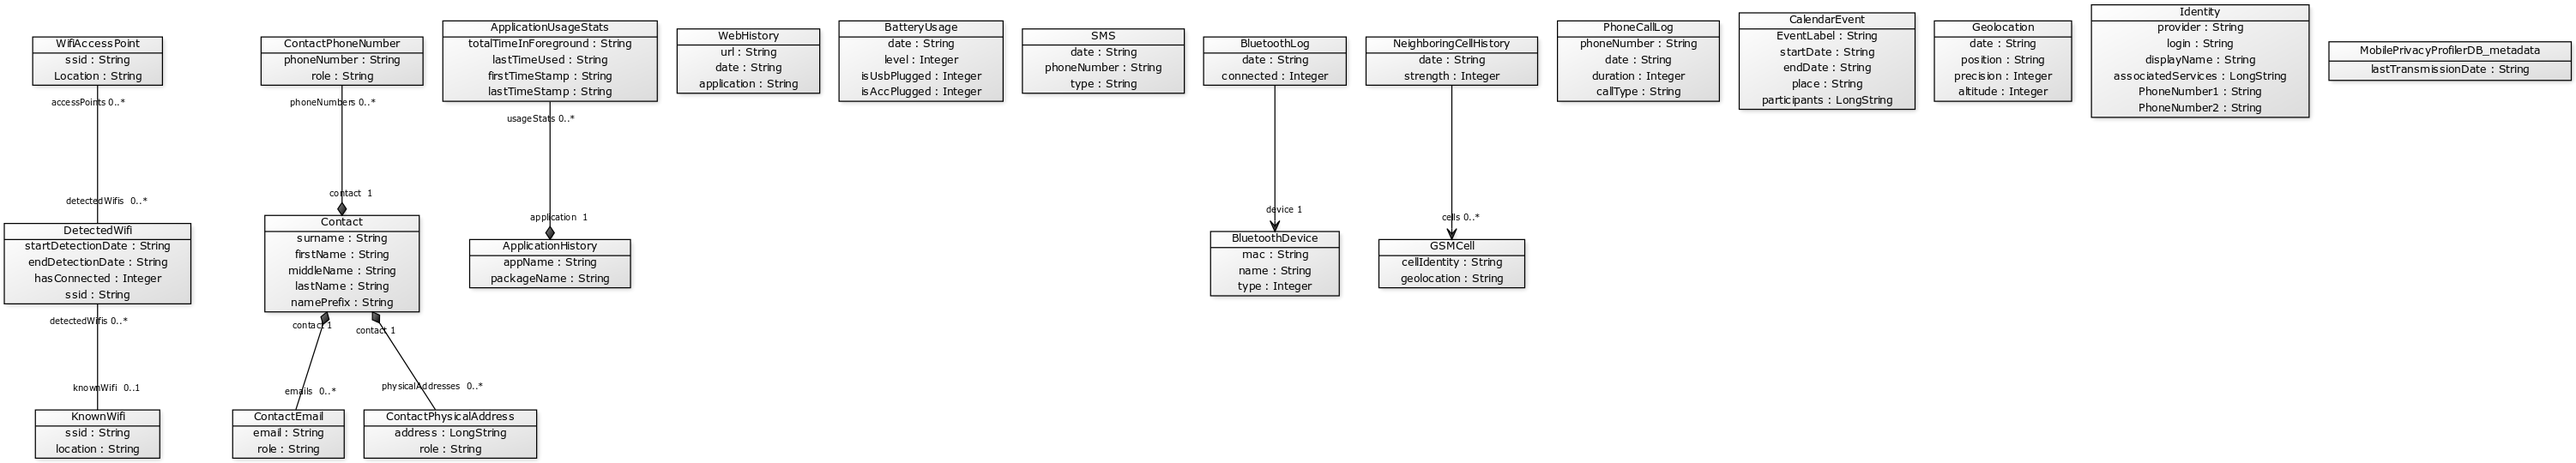
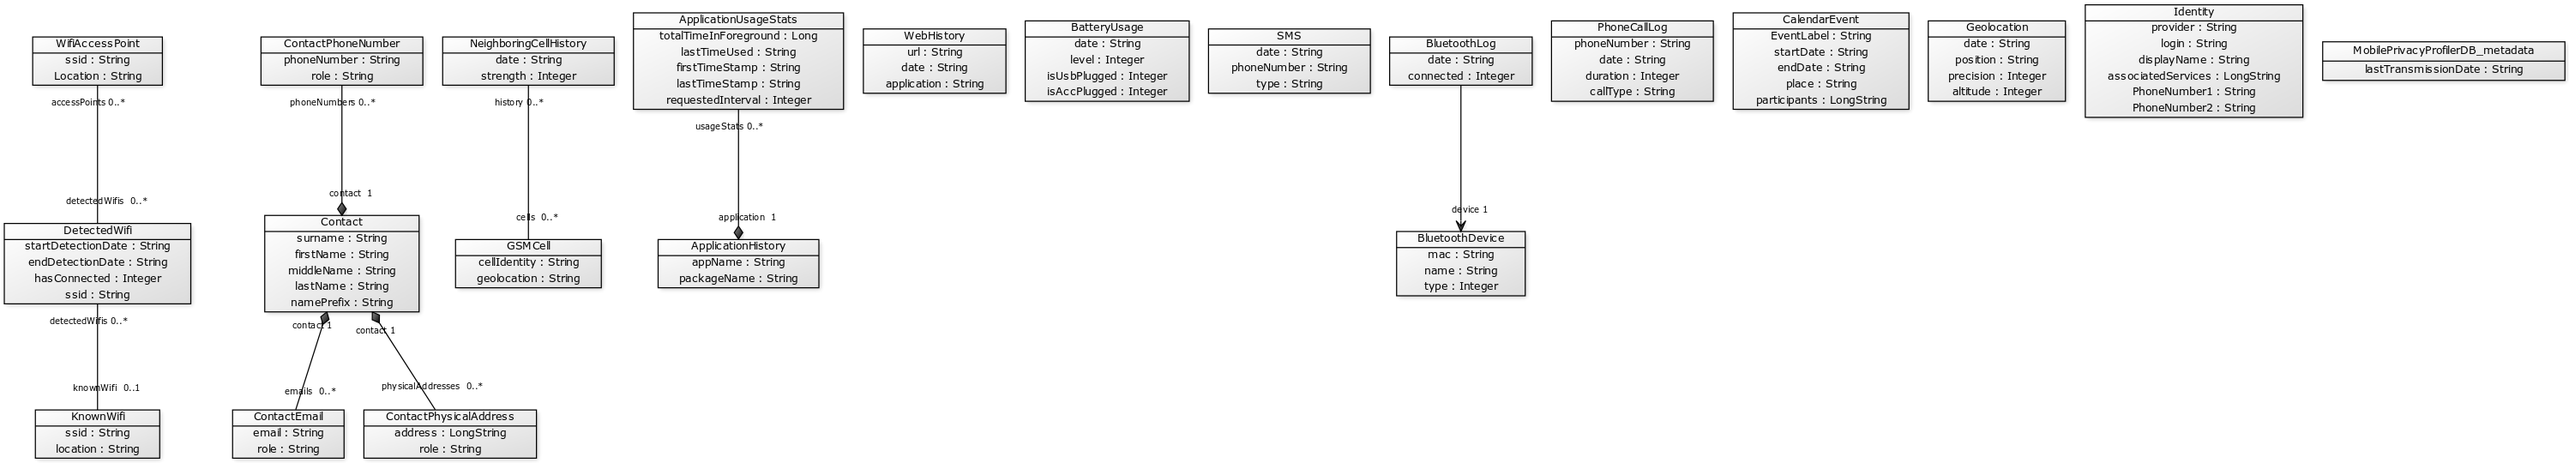
store both daily and weekly appstats
contributes to #8

diff --git a/app/src/main/java/fr/inria/diverse/mobileprivacyprofiler/services/ScanDeviceIntentService.java b/app/src/main/java/fr/inria/diverse/mobileprivacyprofiler/services/ScanDeviceIntentService.java
@@ -154,25 +154,34 @@ public class ScanDeviceIntentService extends IntentService {
      */
     private void handleActionScanAppUsage() {
         Log.d(TAG,"handleActionScanAppUsage");
+        scanAppUsageForLastPeriod(UsageStatsManager.INTERVAL_WEEKLY);
+        scanAppUsageForLastPeriod(UsageStatsManager.INTERVAL_DAILY);
+    }
+
+    private void scanAppUsageForLastPeriod(int periodType) {
         if (Build.VERSION.SDK_INT >= Build.VERSION_CODES.LOLLIPOP) {
-
-
-
             UsageStatsManager usageStatsManager = (UsageStatsManager) getSystemService(USAGE_STATS_SERVICE);
-            SimpleDateFormat dateFormat = new SimpleDateFormat("dd-MM-yyyy", Locale.US);
-
-
-            Log.d(TAG,"got usageStatsManager "+usageStatsManager.toString());
             Calendar calendar = Calendar.getInstance();
-            calendar.set(Calendar.DAY_OF_WEEK, Calendar.MONDAY);
-            Calendar startDate = DateUtils.firstDayOfLastWeek(calendar);
-           // startDate.add(Calendar.MONTH, -1);
+            //calendar.set(Calendar.DAY_OF_WEEK, Calendar.MONDAY);
+            Calendar startDate;
+            Calendar endDate;
+            switch (periodType) {
+                case UsageStatsManager.INTERVAL_WEEKLY:
+                    startDate = DateUtils.firstDayOfLastWeek(calendar);
+                    endDate = DateUtils.lastDayOfLastWeek(calendar);
+                break;
+                default: // default to daily period
+                    startDate = DateUtils.yesterdayStart(calendar);
+                    endDate = DateUtils.yesterdayEnd(calendar);
+                    break;
+            }
+
+            // startDate.add(Calendar.MONTH, -1);
             long start = startDate.getTimeInMillis();
-            long end = DateUtils.lastDayOfLastWeek(calendar).getTimeInMillis();
+            long end = endDate.getTimeInMillis();
             Log.d(TAG,"   Stat period required "+ DateUtils.printDate(start) +
                     " - "+ DateUtils.printDate(end));
-            //Map<String, UsageStats> stats = usageStatsManager.queryAndAggregateUsageStats(start, end);
-            List<UsageStats> stats = usageStatsManager.queryUsageStats(UsageStatsManager.INTERVAL_WEEKLY,start, end);
+            List<UsageStats> stats = usageStatsManager.queryUsageStats(periodType,start, end);
             Log.d(TAG,"usageStatsManager query returned "+stats.size()+" elements; hasPermission= "+hasPermission());
             for(UsageStats appUsageStatsentry : stats){
                 Log.d(TAG,"stats for "+appUsageStatsentry.getPackageName());
@@ -185,16 +194,17 @@ public class ScanDeviceIntentService extends IntentService {
                             " - "+ DateUtils.printDate(appUsageStatsentry.getLastTimeStamp()));
                     ApplicationUsageStats equivalentExistingStat = null;
                     for (ApplicationUsageStats existingStat : applicationHistory.getUsageStats()){
-                         if(existingStat.getFirstTimeStamp().equals(statStartDate)) {
-                             equivalentExistingStat =  existingStat;
-                         }
+                        if(existingStat.getRequestedInterval() ==  periodType &&
+                                existingStat.getFirstTimeStamp().equals(statStartDate)) {
+                            equivalentExistingStat =  existingStat;
+                        }
                     }
                     if (equivalentExistingStat != null) {
-                        // update existing 
+                        // update existing
                         Log.d(TAG,"   updating... ");
                         equivalentExistingStat.setLastTimeStamp(DateUtils.printDate(appUsageStatsentry.getLastTimeStamp()));
                         equivalentExistingStat.setLastTimeUsed(DateUtils.printDate(appUsageStatsentry.getLastTimeUsed()));
-                        equivalentExistingStat.setTotalTimeInForeground(""+appUsageStatsentry.getTotalTimeInForeground());
+                        equivalentExistingStat.setTotalTimeInForeground(appUsageStatsentry.getTotalTimeInForeground());
                         getDBHelper().getApplicationUsageStatsDao().update(equivalentExistingStat);
                     } else {
                         // create new entry
@@ -203,7 +213,8 @@ public class ScanDeviceIntentService extends IntentService {
                         appStat.setFirstTimeStamp(statStartDate);
                         appStat.setLastTimeStamp(DateUtils.printDate(appUsageStatsentry.getLastTimeStamp()));
                         appStat.setLastTimeUsed(DateUtils.printDate(appUsageStatsentry.getLastTimeUsed()));
-                        appStat.setTotalTimeInForeground(""+appUsageStatsentry.getTotalTimeInForeground());
+                        appStat.setTotalTimeInForeground(appUsageStatsentry.getTotalTimeInForeground());
+                        appStat.setRequestedInterval(periodType);
                         appStat.setApplication(applicationHistory);
                         getDBHelper().getApplicationUsageStatsDao().create(appStat);
                     }

diff --git a/app/src/main/java/fr/inria/diverse/mobileprivacyprofiler/datamodel/ApplicationUsageStats.java b/app/src/main/java/fr/inria/diverse/mobileprivacyprofiler/datamodel/ApplicationUsageStats.java
@@ -37,6 +37,7 @@ public class ApplicationUsageStats {
 	public static final String XML_ATT_LASTTIMEUSED = "lastTimeUsed";
 	public static final String XML_ATT_FIRSTTIMESTAMP = "firstTimeStamp";
 	public static final String XML_ATT_LASTTIMESTAMP = "lastTimeStamp";
+	public static final String XML_ATT_REQUESTEDINTERVAL = "requestedInterval";
 	public static final String XML_REF_APPLICATION = "application";
 	// id is generated by the database and set on the object automagically
 	@DatabaseField(generatedId = true)
@@ -54,8 +55,9 @@ public class ApplicationUsageStats {
 	public boolean application_mayNeedDBRefresh = true;
 	
 
+	/** Get the total time this package spent in the foreground, measured in milliseconds.  */ 
 	@DatabaseField
-	protected java.lang.String totalTimeInForeground;
+	protected long totalTimeInForeground;
 
 	@DatabaseField
 	protected java.lang.String lastTimeUsed;
@@ -67,6 +69,10 @@ public class ApplicationUsageStats {
 	/** Get the end of the time range this UsageStats represents, measured in milliseconds since the epoch. */ 
 	@DatabaseField
 	protected java.lang.String lastTimeStamp;
+
+	/** Daily, weekly, monthly, yearly as defined in https://developer.android.com/reference/android/app/usage/UsageStatsManager.html */ 
+	@DatabaseField
+	protected int requestedInterval;
 	
 
 	@DatabaseField(foreign = true) //, columnName = USER_ID_FIELD_NAME)
@@ -76,12 +82,13 @@ public class ApplicationUsageStats {
 	// End of user code
 	
 	public ApplicationUsageStats() {} // needed by ormlite
-	public ApplicationUsageStats(java.lang.String totalTimeInForeground, java.lang.String lastTimeUsed, java.lang.String firstTimeStamp, java.lang.String lastTimeStamp) {
+	public ApplicationUsageStats(long totalTimeInForeground, java.lang.String lastTimeUsed, java.lang.String firstTimeStamp, java.lang.String lastTimeStamp, int requestedInterval) {
 		super();
 		this.totalTimeInForeground = totalTimeInForeground;
 		this.lastTimeUsed = lastTimeUsed;
 		this.firstTimeStamp = firstTimeStamp;
 		this.lastTimeStamp = lastTimeStamp;
+		this.requestedInterval = requestedInterval;
 	} 
 
 	public int getId() {
@@ -98,10 +105,10 @@ public class ApplicationUsageStats {
 		this._contextDB = contextDB;
 	}
 
-	public java.lang.String getTotalTimeInForeground() {
+	public long getTotalTimeInForeground() {
 		return this.totalTimeInForeground;
 	}
-	public void setTotalTimeInForeground(java.lang.String totalTimeInForeground) {
+	public void setTotalTimeInForeground(long totalTimeInForeground) {
 		this.totalTimeInForeground = totalTimeInForeground;
 	}
 	public java.lang.String getLastTimeUsed() {
@@ -121,6 +128,12 @@ public class ApplicationUsageStats {
 	}
 	public void setLastTimeStamp(java.lang.String lastTimeStamp) {
 		this.lastTimeStamp = lastTimeStamp;
+	}
+	public int getRequestedInterval() {
+		return this.requestedInterval;
+	}
+	public void setRequestedInterval(int requestedInterval) {
+		this.requestedInterval = requestedInterval;
 	}
 
 	public ApplicationHistory getApplication() {
@@ -153,7 +166,7 @@ public class ApplicationUsageStats {
 		sb.append(" ");
     	sb.append(XML_ATT_TOTALTIMEINFOREGROUND);
     	sb.append("=\"");
-		sb.append(StringEscapeUtils.escapeXml(this.totalTimeInForeground));
+		sb.append(this.totalTimeInForeground);
     	sb.append("\" ");
 		sb.append(" ");
     	sb.append(XML_ATT_LASTTIMEUSED);
@@ -169,6 +182,11 @@ public class ApplicationUsageStats {
     	sb.append(XML_ATT_LASTTIMESTAMP);
     	sb.append("=\"");
 		sb.append(StringEscapeUtils.escapeXml(this.lastTimeStamp));
+    	sb.append("\" ");
+		sb.append(" ");
+    	sb.append(XML_ATT_REQUESTEDINTERVAL);
+    	sb.append("=\"");
+		sb.append(this.requestedInterval);
     	sb.append("\" ");
     	sb.append(">");
 

diff --git a/app/src/main/java/fr/inria/diverse/mobileprivacyprofiler/utils/DateUtils.java b/app/src/main/java/fr/inria/diverse/mobileprivacyprofiler/utils/DateUtils.java
@@ -31,6 +31,34 @@ public class DateUtils {
         }
     }
 
+    public static Calendar firstDayOfLastMonth(Calendar c)
+    {
+        c = (Calendar) c.clone();
+        // last month
+        c.add(Calendar.MONTH, -1);
+        // first day
+        c.set(Calendar.DAY_OF_MONTH, 1);
+        c.set(Calendar.HOUR_OF_DAY, 0);
+        c.set(Calendar.MINUTE, 0);
+        c.set(Calendar.SECOND, 0);
+        c.set(Calendar.MILLISECOND, 0);
+        return c;
+    }
+
+    public static Calendar lastDayOfLastMonth(Calendar c)
+    {
+        c = (Calendar) c.clone();
+        // first day of this month
+        c.set(Calendar.DAY_OF_MONTH, 1);
+        c.set(Calendar.HOUR_OF_DAY, 0);
+        c.set(Calendar.MINUTE, 0);
+        c.set(Calendar.SECOND, 0);
+        c.set(Calendar.MILLISECOND, 0);
+        // last day/milllis of previous month
+        c.add(Calendar.MILLISECOND, -1);
+        return c;
+    }
+
     public static Calendar firstDayOfLastWeek(Calendar c)
     {
         c = (Calendar) c.clone();
@@ -55,6 +83,31 @@ public class DateUtils {
         c.set(Calendar.SECOND, 0);
         c.set(Calendar.MILLISECOND, 0);
         // last day/milllis of previous week
+        c.add(Calendar.MILLISECOND, -1);
+        return c;
+    }
+
+    public static Calendar yesterdayStart(Calendar c)
+    {
+        c = (Calendar) c.clone();
+        // yesterday
+        c.add(Calendar.DAY_OF_WEEK, -1);
+        c.set(Calendar.HOUR_OF_DAY, 0);
+        c.set(Calendar.MINUTE, 0);
+        c.set(Calendar.SECOND, 0);
+        c.set(Calendar.MILLISECOND, 0);
+        return c;
+    }
+
+    public static Calendar yesterdayEnd(Calendar c)
+    {
+        c = (Calendar) c.clone();
+        // today
+        c.set(Calendar.HOUR_OF_DAY, 0);
+        c.set(Calendar.MINUTE, 0);
+        c.set(Calendar.SECOND, 0);
+        c.set(Calendar.MILLISECOND, 0);
+        // last milllis of yesterday
         c.add(Calendar.MILLISECOND, -1);
         return c;
     }

diff --git a/app/src/main/java/fr/inria/diverse/mobileprivacyprofiler/datamodel/xml/MobilePrivacyProfilerDBXMLParser.java b/app/src/main/java/fr/inria/diverse/mobileprivacyprofiler/datamodel/xml/MobilePrivacyProfilerDBXMLParser.java
@@ -152,6 +152,8 @@ public class MobilePrivacyProfilerDBXMLParser {
 	public static final String DATAATT_APPLICATIONUSAGESTATS_FIRSTTIMESTAMP = "FIRSTTIMESTAMP";
 	public static final String DATAATT_APPLICATIONUSAGESTATS_lastTimeStamp = "lastTimeStamp";
 	public static final String DATAATT_APPLICATIONUSAGESTATS_LASTTIMESTAMP = "LASTTIMESTAMP";
+	public static final String DATAATT_APPLICATIONUSAGESTATS_requestedInterval = "requestedInterval";
+	public static final String DATAATT_APPLICATIONUSAGESTATS_REQUESTEDINTERVAL = "REQUESTEDINTERVAL";
 	public static final String DATAREF_APPLICATIONUSAGESTATS_application = "application";
 	public static final String DATAATT_IDENTITY_provider = "provider";
 	public static final String DATAATT_IDENTITY_PROVIDER = "PROVIDER";
@@ -875,10 +877,11 @@ public class MobilePrivacyProfilerDBXMLParser {
     	String currentTagName = parser.getName();
     			
     	xmlId2ApplicationUsageStats.put(parser.getAttributeValue(null, ID_STRING),result);		
-		result.setTotalTimeInForeground(parser.getAttributeValue(null, DATAATT_APPLICATIONUSAGESTATS_totalTimeInForeground));
+		// TODO totalTimeInForeground = parser.getAttributeValue(null, DATAATT_APPLICATIONUSAGESTATS_TOTALTIMEINFOREGROUND);
 		result.setLastTimeUsed(parser.getAttributeValue(null, DATAATT_APPLICATIONUSAGESTATS_lastTimeUsed));
 		result.setFirstTimeStamp(parser.getAttributeValue(null, DATAATT_APPLICATIONUSAGESTATS_firstTimeStamp));
 		result.setLastTimeStamp(parser.getAttributeValue(null, DATAATT_APPLICATIONUSAGESTATS_lastTimeStamp));
+		// TODO requestedInterval = parser.getAttributeValue(null, DATAATT_APPLICATIONUSAGESTATS_REQUESTEDINTERVAL);
 		while (parser.next() != XmlPullParser.END_TAG) {
 	        if (parser.getEventType() != XmlPullParser.START_TAG) {
 	            continue;

diff --git a/app/src/main/java/fr/inria/diverse/mobileprivacyprofiler/activities/Home_CustomViewActivity.java b/app/src/main/java/fr/inria/diverse/mobileprivacyprofiler/activities/Home_CustomViewActivity.java
@@ -87,15 +87,15 @@ public class Home_CustomViewActivity extends OrmLiteActionBarActivity<OrmLiteDBH
         //Log.d("MainActivity", "resultCode " + resultCode);
         switch (requestCode){
             case MY_PERMISSIONS_REQUEST_PACKAGE_USAGE_STATS:
-               // if (!hasPermission()){
+               if (!hasPermission()){
                     requestPermission();
-               // }
+                }
                 break;
         }
     }
 
     private void requestPermission() {
-        Toast.makeText(this, "Need to grant App usage stat permission", Toast.LENGTH_SHORT).show();
+        Toast.makeText(this, "Please grant App usage stat permission to Mobiel Privacy Profiler", Toast.LENGTH_SHORT).show();
         startActivityForResult(new Intent(android.provider.Settings.ACTION_USAGE_ACCESS_SETTINGS), MY_PERMISSIONS_REQUEST_PACKAGE_USAGE_STATS);
     }
 
